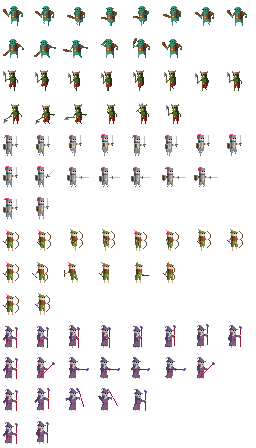
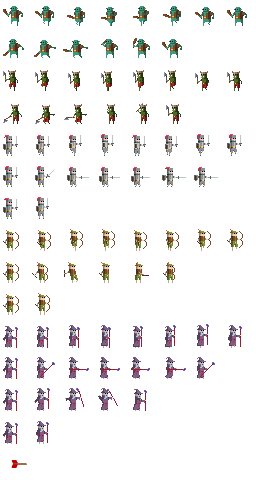
Attacks WIP

diff --git a/Assets/Scripts/AttackSystem.cs b/Assets/Scripts/AttackSystem.cs
@@ -1,18 +1,47 @@
 using Unity.Burst;
 using Unity.Collections;
+using Unity.Collections.LowLevel.Unsafe;
 using Unity.Entities;
 using Unity.Jobs;
 using Unity.Transforms;
 using UnityEngine;
 
+struct ProjectileData
+{
+    public Translation From;
+    public Translation To;
+    public Entity Target;
+    public int Damage;
+}
+
 [UpdateAfter(typeof(FindTargetJobSystem))]
 public class AttackJobSystem : JobComponentSystem
 {
-    private EndSimulationEntityCommandBufferSystem _endSimulationEntityCommandBufferSystem;
+    EndSimulationEntityCommandBufferSystem _endSimulationEntityCommandBufferSystem;
+    NativeQueue<ProjectileData> _projectiles;
+    EntityManager _entityManager;
+
+    EntityArchetype _arrow;
 
     protected override void OnCreate() {
         _endSimulationEntityCommandBufferSystem = World.GetOrCreateSystem<EndSimulationEntityCommandBufferSystem>();
+        _projectiles = new NativeQueue<ProjectileData>(Allocator.Persistent);
         base.OnCreate();
+        _entityManager = World.EntityManager;
+        _arrow = _entityManager.CreateArchetype(
+            typeof(SpriteSheetAnimation_Data),
+            typeof(Translation),
+            typeof(MoveTo),
+            typeof(AttackData),
+            typeof(Projectile)
+        );
+
+    }
+
+    protected override void OnDestroy()
+    {
+        base.OnDestroy();
+        _projectiles.Dispose();
     }
 
     [ExcludeComponent(typeof(DoAttack))]
@@ -43,14 +72,17 @@ public class AttackJobSystem : JobComponentSystem
 
     [ExcludeComponent(typeof(IsDead))]
     [BurstCompile]
-    private struct AttackEntityJob : IJobForEachWithEntity<DoAttack>
+    private struct AttackEntityJob : IJobForEachWithEntity<DoAttack, AttackData>
     {
+        [NativeDisableContainerSafetyRestriction]
+        public NativeQueue<ProjectileData>.ParallelWriter Queue;
         [ReadOnly] public ComponentDataFromEntity<HealthData> HealthDataGetter;
+        [ReadOnly] public ComponentDataFromEntity<Translation> TranslationDataGetter;
         [ReadOnly] public float DeltaTime;
 
         public EntityCommandBuffer.Concurrent EntityCommandBuffer;
 
-        public void Execute(Entity entity, int index, ref DoAttack doAttack)
+        public void Execute(Entity entity, int index, ref DoAttack doAttack, ref AttackData attackData)
         {
             if (doAttack.TargetEntity != Entity.Null)
             {
@@ -58,18 +90,35 @@ public class AttackJobSystem : JobComponentSystem
                 if (doAttack.ElapsedTime >= doAttack.AttackTime)
                 {
                     doAttack.ElapsedTime = 0f;
-                    var healthData = HealthDataGetter[doAttack.TargetEntity];
-                    if (!healthData.IsDead)
+                    if (attackData.CharacterType == CharacterTypeData.CharactersType.Ranger ||
+                        attackData.CharacterType == CharacterTypeData.CharactersType.Wizard)
                     {
-                        healthData.CurrentHealth -= doAttack.Damage;
-//                        Debug.Log("Caused " + doAttack.Damage + " to " + doAttack.TargetEntity);
+                        var position = TranslationDataGetter[entity];
+                        var targetPosition = TranslationDataGetter[doAttack.TargetEntity];
+                        ProjectileData data = new ProjectileData()
+                        {
+                            From = position,
+                            To = targetPosition,
+                            Target = doAttack.TargetEntity,
+                            Damage = doAttack.Damage
+                        };
+                        Queue.Enqueue(data);
                     }
-
-                    if (!healthData.IsDead)
+                    else
                     {
-                        EntityCommandBuffer.RemoveComponent(index, entity, typeof(DoAttack));
-                        EntityCommandBuffer.RemoveComponent(index, entity, typeof(HasTarget));
-                        EntityCommandBuffer.AddComponent(index, doAttack.TargetEntity, typeof(IsDead));
+                        var healthData = HealthDataGetter[doAttack.TargetEntity];
+                        if (!healthData.IsDead)
+                        {
+                            healthData.CurrentHealth -= doAttack.Damage;
+//                        Debug.Log("Caused " + doAttack.Damage + " to " + doAttack.TargetEntity);
+                        }
+
+                        if (!healthData.IsDead)
+                        {
+                            EntityCommandBuffer.RemoveComponent(index, entity, typeof(DoAttack));
+                            EntityCommandBuffer.RemoveComponent(index, entity, typeof(HasTarget));
+                            EntityCommandBuffer.AddComponent(index, doAttack.TargetEntity, typeof(IsDead));
+                        }
                     }
                 }
             }
@@ -93,16 +142,20 @@ public class AttackJobSystem : JobComponentSystem
     protected override JobHandle OnUpdate(JobHandle inputDeps)
     {
         var healthDataGetter = GetComponentDataFromEntity<HealthData>(true);
+        var translationDataGetter = GetComponentDataFromEntity<Translation>(true);
+        _projectiles.Clear();
 
         var attackEntityJob = new AttackEntityJob
         {
+            Queue = _projectiles.AsParallelWriter(),
             HealthDataGetter = healthDataGetter,
             DeltaTime = Time.deltaTime,
             EntityCommandBuffer = _endSimulationEntityCommandBufferSystem.CreateCommandBuffer().ToConcurrent(),
+            TranslationDataGetter = translationDataGetter,
         };
         var handle = attackEntityJob.Schedule(this, inputDeps);
-        handle.Complete();
         //_endSimulationEntityCommandBufferSystem.AddJobHandleForProducer(handle);
+        handle.Complete();
 
         var attackDataGetter = GetComponentDataFromEntity<AttackData>(true);
 
@@ -113,9 +166,29 @@ public class AttackJobSystem : JobComponentSystem
             AttackDataGetter = attackDataGetter,
         };
         handle = addComponentJob.Schedule(this, handle);
-        handle.Complete();
         _endSimulationEntityCommandBufferSystem.AddJobHandleForProducer(handle);
+        handle.Complete();
 
+        while (_projectiles.Count > 0)
+        {
+            var projectileData = _projectiles.Dequeue();
+            var arrow = _entityManager.CreateEntity(_arrow);
+            _entityManager.SetComponentData(arrow, new Translation() { Value = projectileData.From.Value } );
+            _entityManager.SetComponentData(arrow, new Projectile() { Target = projectileData.Target, Damage = projectileData.Damage } );
+            _entityManager.SetComponentData(arrow, new MoveTo() { Move = true, Position = projectileData.To.Value, MoveSpeed = 1.2f, Distance = 0.01f } );
+            _entityManager.SetComponentData(arrow,
+                new SpriteSheetAnimation_Data
+                {
+                    currentFrame = 1,
+                    frameCount = 8,
+                    frameTimer = 0f,
+                    frameTimerMax = .1f,
+                    inverted = false,
+                    yIndex = 14
+                }
+            );
+            GameController.Instance.AddPositionData(arrow);
+        }
 
         /*var removeDeadJob = new RemoveDeadJob()
         {
@@ -134,6 +207,12 @@ public class AttackJobSystem : JobComponentSystem
         entitiesToRemove.Dispose();*/
         return handle;
     }
+}
+
+public struct Projectile : IComponentData
+{
+    public Entity Target;
+    public int Damage;
 }
 
 [UpdateAfter(typeof(AttackJobSystem))]

diff --git a/Assets/Scripts/UnitMoveSystem.cs b/Assets/Scripts/UnitMoveSystem.cs
@@ -9,9 +9,25 @@ using UnityEngine;
 // Unit go to Move Position
 public class UnitMoveSystem : JobComponentSystem
 {
-    [BurstCompile]
-    private struct Job : IJobForEachWithEntity<MoveTo, Translation> {
+    NativeQueue<Entity> _completedMovement;
 
+    protected override void OnCreate()
+    {
+        base.OnCreate();
+        _completedMovement = new NativeQueue<Entity>(Allocator.Persistent);
+    }
+
+    protected override void OnDestroy()
+    {
+        base.OnDestroy();
+        _completedMovement.Dispose();
+    }
+
+    [BurstCompile]
+    private struct Job : IJobForEachWithEntity<MoveTo, Translation>
+    {
+
+        public NativeQueue<Entity>.ParallelWriter Queue;
         public float deltaTime;
 
         public void Execute(Entity entity, int index, [ReadOnly] ref MoveTo moveTo, ref Translation translation)
@@ -26,6 +42,8 @@ public class UnitMoveSystem : JobComponentSystem
                 }
                 else
                 {
+                    Queue.Enqueue(entity);
+                    moveTo.Move = false;
                     // Already there
                 }
             }
@@ -37,9 +55,15 @@ public class UnitMoveSystem : JobComponentSystem
     {
         Job job = new Job
         {
+            Queue = _completedMovement.AsParallelWriter(),
             deltaTime = Time.deltaTime,
         };
         return job.Schedule(this, inputDeps);
+
+        while (_completedMovement.Count > 0)
+        {
+            GameController.Instance.EntityReachedTarget(_completedMovement.Dequeue());
+        }
     }
 
 }

diff --git a/Assets/Scripts/GameController.cs b/Assets/Scripts/GameController.cs
@@ -377,7 +377,7 @@ public class GameController : MonoBehaviour
         return -1;
     }
 
-    void AddPositionData(Entity entity)
+    public void AddPositionData(Entity entity)
     {
         var translation = _entityManager.GetComponentData<Translation>(entity);
         var index = GetSliceIndex(translation.Value.y);
@@ -416,6 +416,28 @@ public class GameController : MonoBehaviour
 
 
             }
+        }
+    }
+
+    public void EntityReachedTarget(Entity entity)
+    {
+        if (_entityManager.HasComponent(entity, typeof(Projectile)))
+        {
+            var projectile = _entityManager.GetComponentData<Projectile>(entity);
+            var health = _entityManager.GetComponentData<HealthData>(projectile.Target);
+
+            if (!health.IsDead)
+            {
+                health.CurrentHealth -= projectile.Damage;
+            }
+
+            if (!health.IsDead)
+            {
+                _entityManager.RemoveComponent(entity, typeof(DoAttack));
+                _entityManager.RemoveComponent(entity, typeof(HasTarget));
+                _entityManager.AddComponent(projectile.Target, typeof(IsDead));
+            }
+
         }
     }
 

diff --git a/Assets/ECS_SpriteSheetAnim/SpriteSheetAnimationSystem.cs b/Assets/ECS_SpriteSheetAnim/SpriteSheetAnimationSystem.cs
@@ -58,7 +58,7 @@ public class SpriteSheetAnimation_Animate : JobComponentSystem {
                 }
 
                 float uvWidth = 1f / spriteSheetAnimationData.frameCount;
-                float uvHeight = 1f / 14f;
+                float uvHeight = 1f / 15f;
                 float uvOffsetX = uvWidth * spriteSheetAnimationData.currentFrame;
                 float uvOffsetY = 1f - (uvHeight * (spriteSheetAnimationData.yIndex + 1f));
                 spriteSheetAnimationData.uv = new Vector4(uvWidth, uvHeight, uvOffsetX, uvOffsetY);
